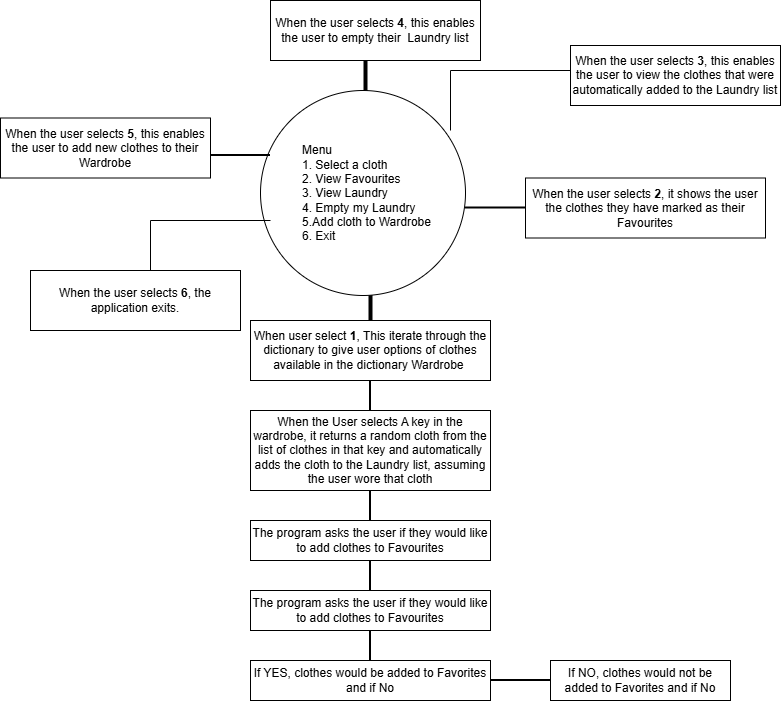
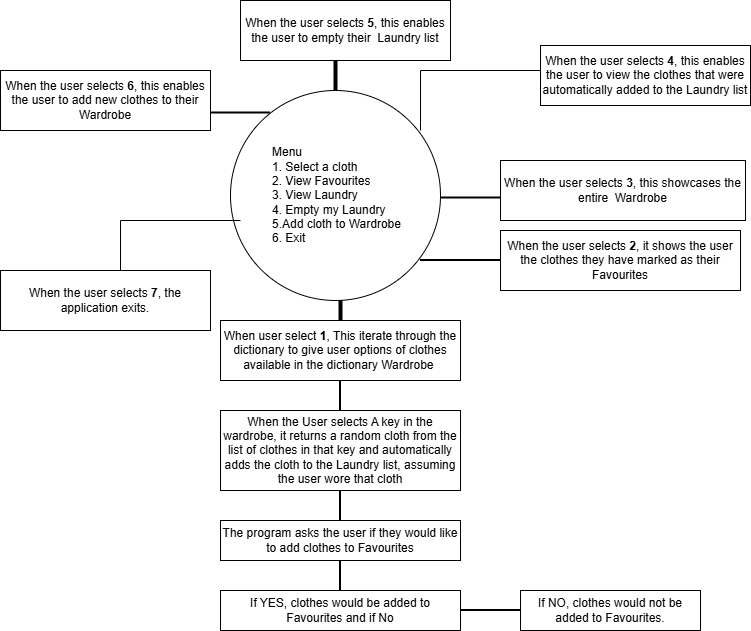
modified Laundry and Favorites files and edited diagram, corrected some spelling errors in menu

diff --git a/main.py b/main.py
@@ -20,20 +20,33 @@ Wardrobe = {'Corporate': ['Navy blue trouser suit','Black skirt suit', 'Navyblue
 
             }
 
-with open("wardrobe.json", "w") as file:  # this writes Wardrobe to json file and indent it for proper reading.
-    json.dump(Wardrobe, file, indent=4)
+#with open("wardrobe.json", "w") as file:  # this writes Wardrobe to json file and indent it for proper reading.
+    #json.dump(Wardrobe, file, indent=4) # it was commented out of the code because i need it to run just once.
 
 
 with open("wardrobe.json", "r") as file:  # this convert the the content of the json into dictinary for usage
         Wardrobe = json.load(file)
        
 
-Laundry = []   
-Favorites = []  
+Laundry = []     # this is an empty Laundry list
+try:
+    with open("Laundry.txt", "r") as file:  # this reads the content of the Laundry.txt and remember its content
+        Laundry = [line.strip() for line in file]  
+except FileNotFoundError:   # error handling should in case file was not found
+    Laundry = []              # then programme use this empty list
 
 
 
-def add_cloth_to_Favorites():
+Favorites = []   # this is an empty Favourites list
+try:
+    with open("Favorites.txt", "r") as file:    # this reads the content of the Favourites.txt and remember its content
+        Favorites = [line.strip() for line in file]
+except FileNotFoundError:   # error handling should in case file was not found
+    Favorites = []       # then programme use this empty list
+
+
+
+def add_cloth_to_Favorites():  # this function adds clothes marked as favourites to the Favourites file
     with open('Favorites.txt','w') as file:
         for item in Favorites:
             file.write(item + "\n")
@@ -122,6 +135,9 @@ def empty_laundry():
 
 def add_to_wardrobe(): # this function alows user to add clothes to the Wardrope
    Add_to_Wardrobe1 = input('Please choose a category:(Native, Corporate, Casual, Sport) ').strip().capitalize()
+   if Add_to_Wardrobe1 not in Wardrobe:
+        print(f"{Add_to_Wardrobe1} category does not  exist!")
+        return
    Add_to_Wardrobe2 = input('Please provide the cloth type: ').strip().title()
     
    
@@ -130,22 +146,31 @@ def add_to_wardrobe(): # this function alows user to add clothes to the Wardrope
    Wardrobe.update({Add_to_Wardrobe1:A})  # converts list back to dictionary and append.
    print(f'{Add_to_Wardrobe2} has been added to Wardrope')
    print(f'{A}')
-   with open("wardrobe.json", "w") as file:
+   with open("wardrobe.json", "w") as file:  # saves to json
         json.dump(Wardrobe, file, indent=4)
 
 
 
+def view_wardrobe(wardrobe):  # this function allows us to view content of our Wardrobe
+    for key, items in wardrobe.items():
+        print(f"{key}:")
+        for item in items:
+            print(f"  * {item}")
 
-def main():
+
+
+
+def main():             # this is the menu
     while True:
         print('Welcome to your Magical Wardrobe')
         print('What would you like to do ?')
-        print('1. Select a Cloth')
-        print('2. view Favorites')
-        print('3. View Laundry') 
-        print('4. Empty my Laundry')
-        print('5. Add cloth to wardrope')
-        print('6. Exit')
+        print('1. Select an outfit')
+        print('2. View Favorites')
+        print('3. View Wardrobe')
+        print('4. View Laundry') 
+        print('5. Empty my Laundry')
+        print('6. Add clothes to wardrobe')
+        print('7. Exit')
 
         user_choice = input('Please select options(1-6):').strip()
         match user_choice:
@@ -154,12 +179,14 @@ def main():
             case '2':
                 view_favorites()
             case '3':
+                view_wardrobe(Wardrobe)
+            case '4':
                 view_laundry()
-            case'4':
-                empty_laundry()
             case'5':
-                add_to_wardrobe()   
+                empty_laundry()
             case'6':
+                add_to_wardrobe()   
+            case'7':
                 print("Goodbye!")
                 break 
             
@@ -172,7 +199,7 @@ def main():
 
 
 
-main()
+main()    # calls the programme
 
 
 
